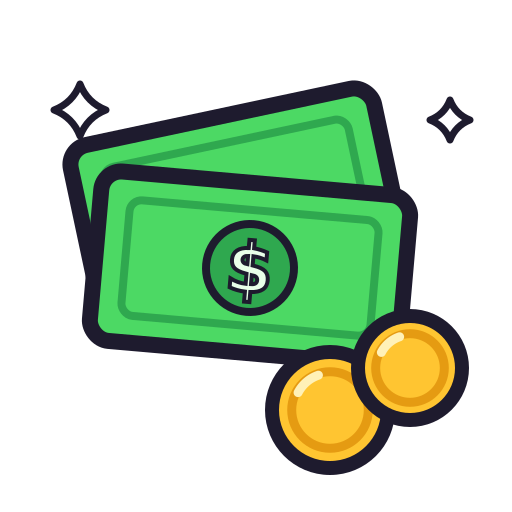
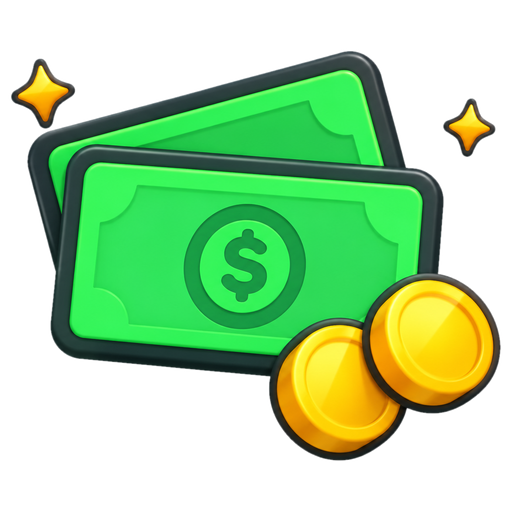
feat(gifts): new Free Gifts card art, with its own picture for liquid, bumped and cash + Speed gifts
Swaps in the new glossy pictures for cash and the three potions, and adds
three crates (orange nuke crate, blue launcher crate for the bumped one,
pink energy cube for the liquid crate) plus a notes-and-lightning picture
for gifts that hold both cash and Speed.

diff --git a/tools/hud-icons/README.md b/tools/hud-icons/README.md
@@ -23,7 +23,7 @@ uploaded as 256px PNGs. The ids live in `src/client/HudArtwork.luau` (`Artwork.I
 | `shop_sunburst.svg` | the rays behind each CASH card's art (white, faded by ImageTransparency) | `sunburst` (512px) |
 | `potion_<id>.svg` (5), `potions_tile.svg` | the potions (luck, cash, speed, strength, clean) and the Potions tile (`PotionController`) | not in `Artwork.IMAGE`: each potion's `image` and `TILE_IMAGE` in `Config/Potions` |
 | `pass_*.svg` (8) | the Shop panel's PASSES cards (`ShopController`) | not in `Artwork.IMAGE`: each pass's `image` in `Config/GamePasses` |
-| `playtime/*.png` (7) | the Free Gifts tile's clock and the gift cards' pictures (crate, cash, Speed, cash/speed/luck potions); PNGs only, no SVG source | not in `Artwork.IMAGE`: `PlaytimeGifts.ICONS` in `Config/PlaytimeGifts` |
+| `playtime/*.png` (10) | the Free Gifts tile's clock and the gift cards' pictures (nuke/bumped/liquid crates, cash, cash + Speed, Speed, cash/speed/luck potions); PNGs only, no SVG source. Most are AI-made, cut out of a white background | not in `Artwork.IMAGE`: `PlaytimeGifts.ICONS` in `Config/PlaytimeGifts` |
 
 To change one: edit the SVG (100x100 viewBox, `#12161d` outline), render it to a
 transparent 256px PNG, upload it (Studio MCP `upload_image`, or Asset Manager), and paste
